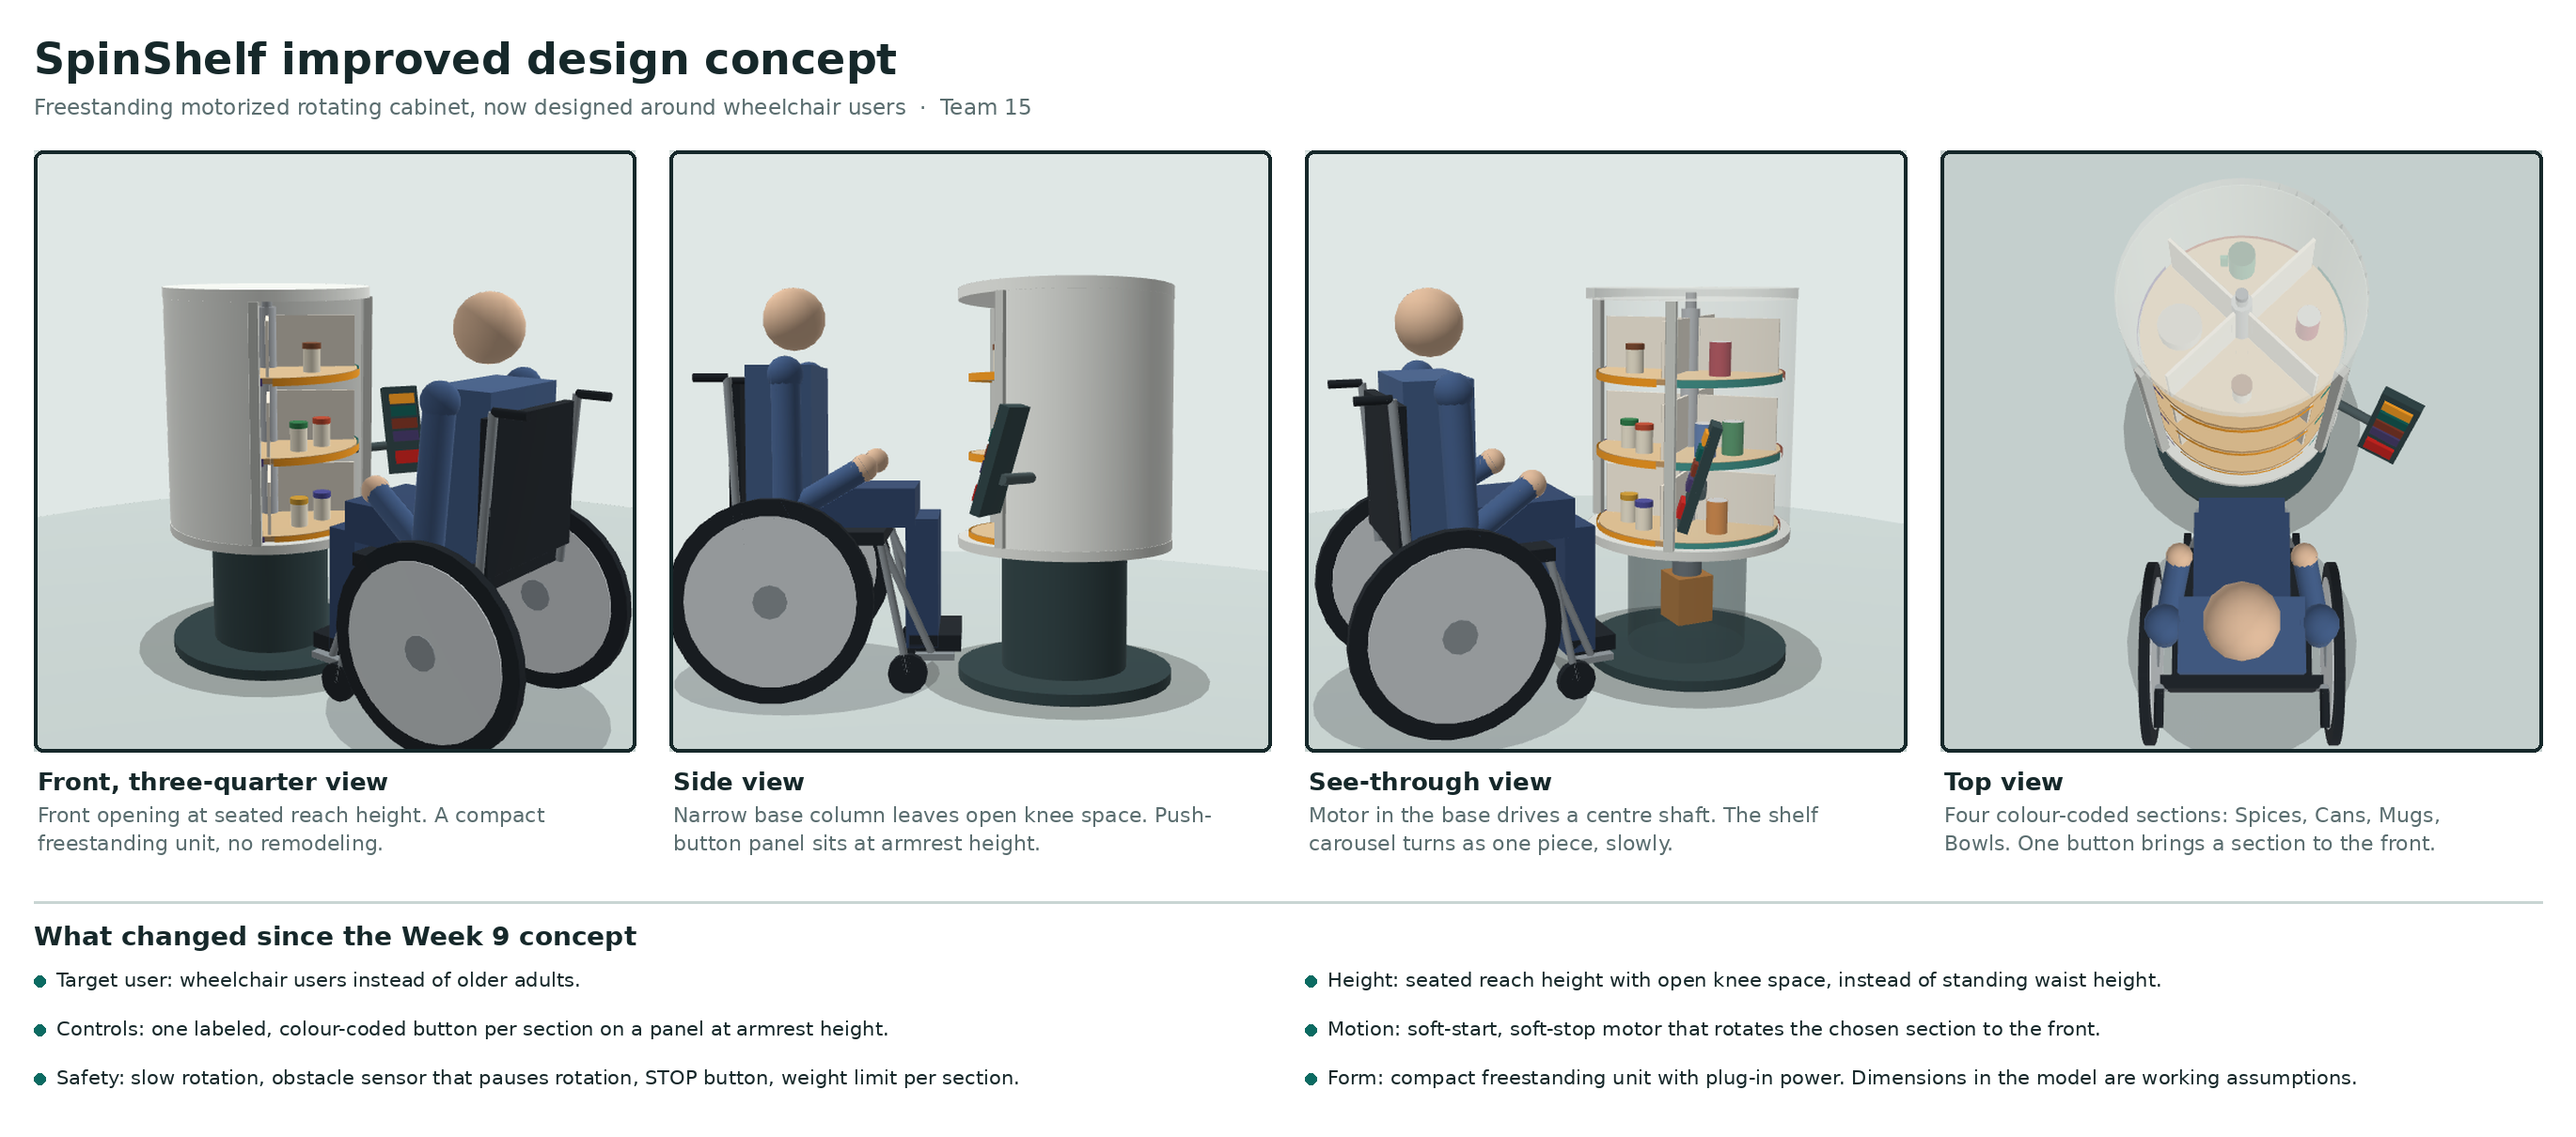
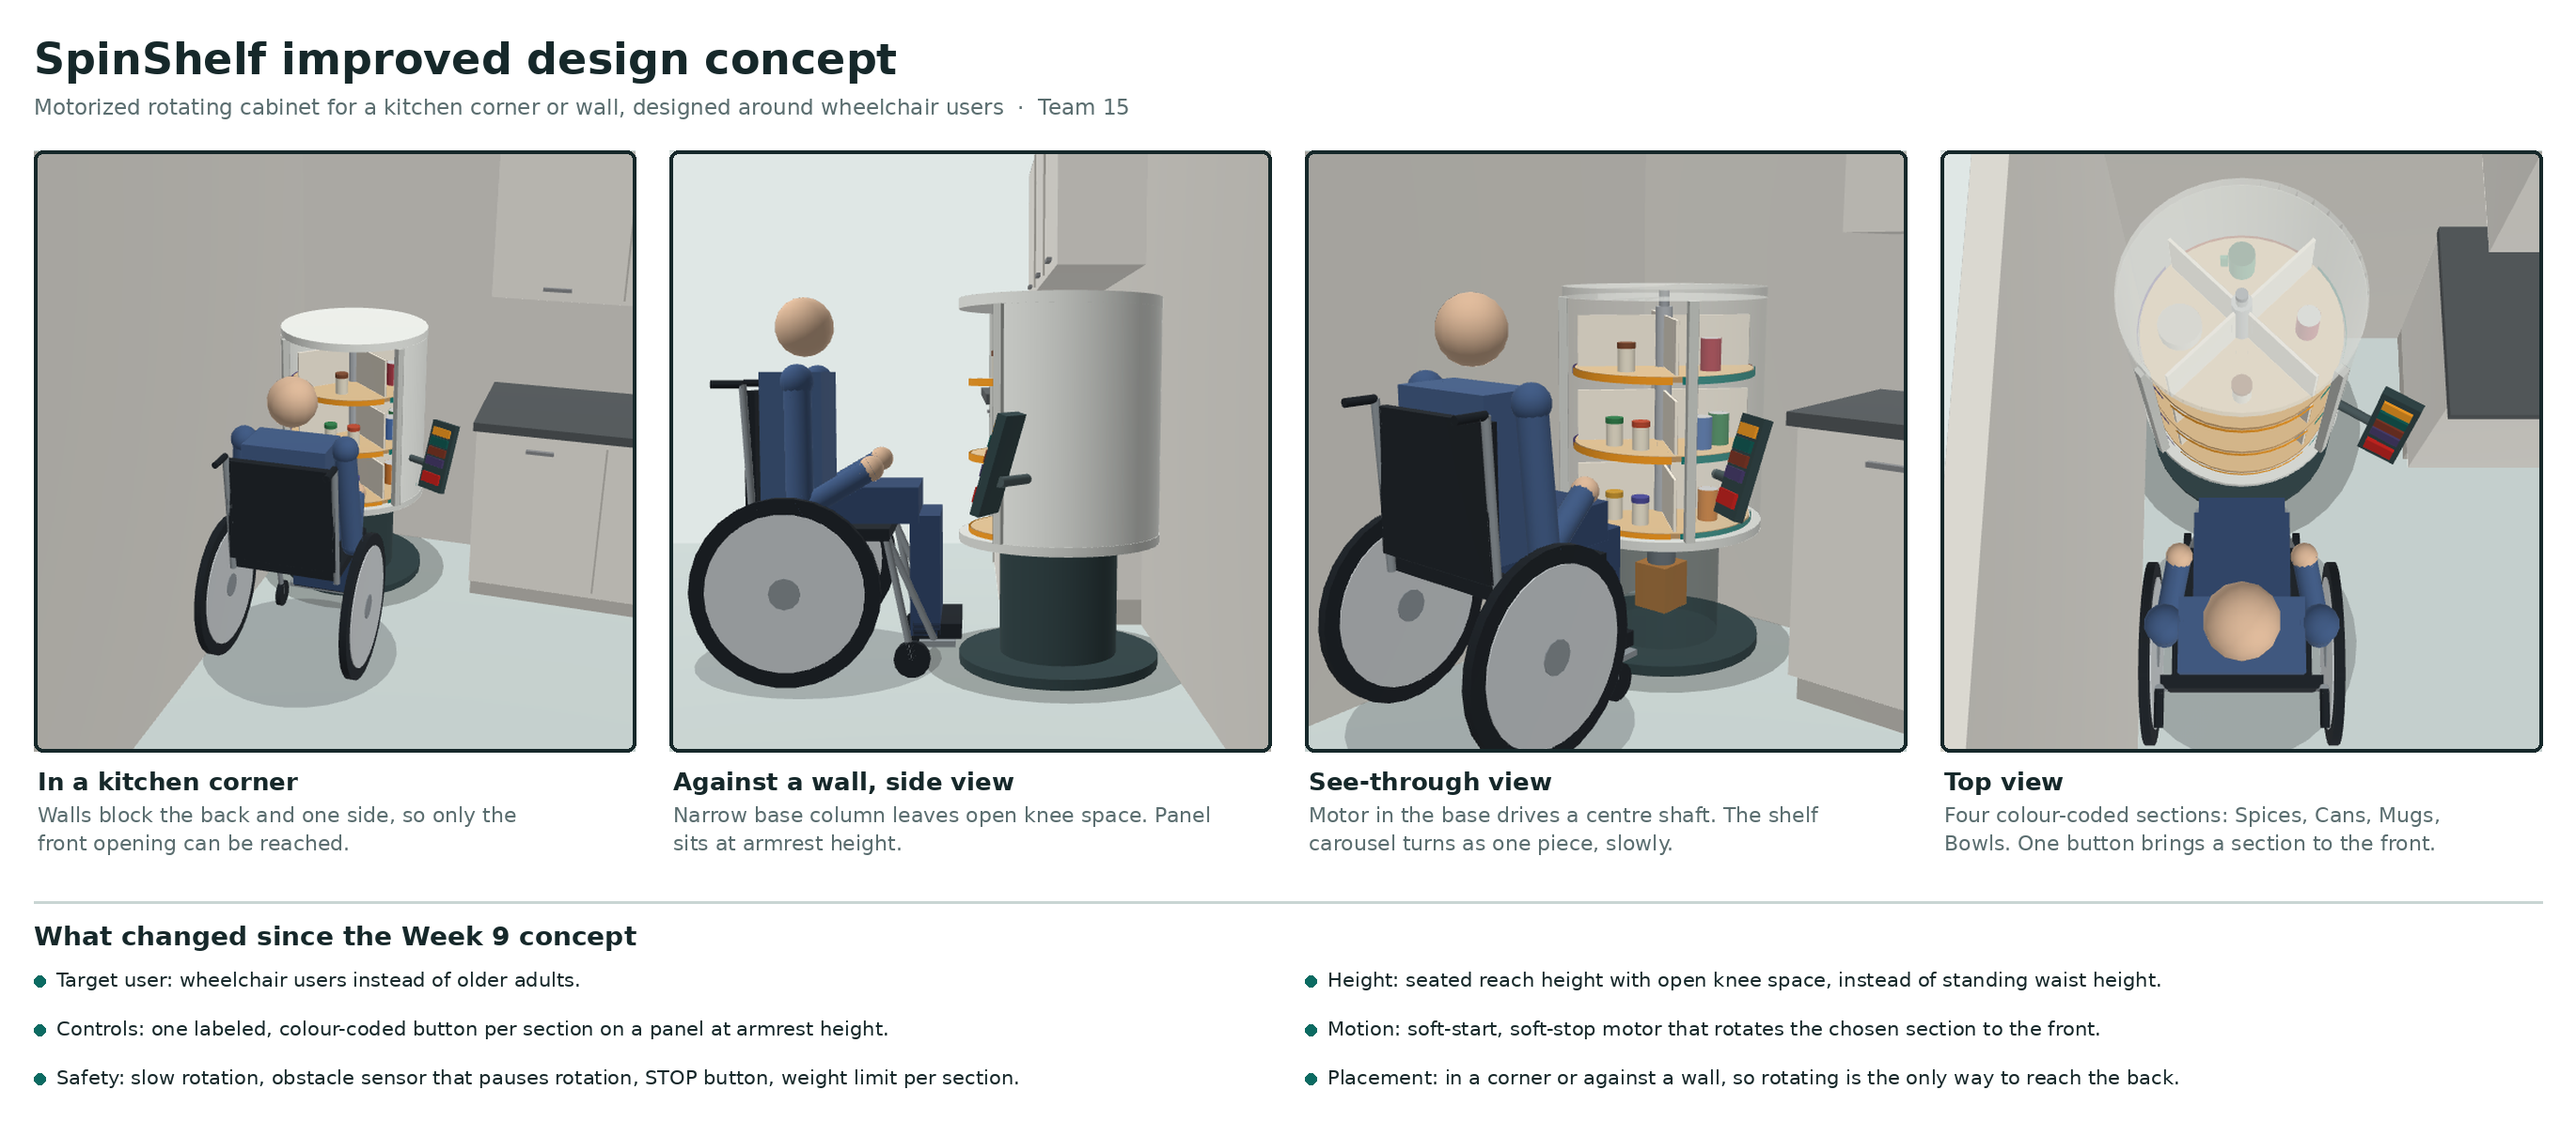
Add files via upload

diff --git a/spinshelf-3d.html b/spinshelf-3d.html
@@ -87,7 +87,7 @@ button[aria-pressed="true"]{background:var(--ink);border-color:var(--ink);color:
     <div class="bar"><i id="prog"></i></div>
     <div class="caption" aria-live="polite">
       <span class="step" id="stepn">Demo</span>
-      <p id="cap">SpinShelf is a freestanding motorized carousel. Press a section button and that section turns to the front.</p>
+      <p id="cap">SpinShelf stands in the kitchen corner, so only its front can be reached. Press a section button and that section turns to the front.</p>
     </div>
   </section>
 
@@ -114,10 +114,17 @@ button[aria-pressed="true"]{background:var(--ink);border-color:var(--ink);color:
         <button class="primary" id="play">Replay demo</button>
         <button id="shell" aria-pressed="true">See-through shell</button>
       </div>
+      <div class="row">
+        <span class="seg" role="group" aria-label="Where SpinShelf stands">
+          <button id="pc" aria-pressed="true">In a corner</button>
+          <button id="pw" aria-pressed="false">Against a wall</button>
+        </span>
+      </div>
       <ul class="legend">
         <li><i style="--c:#d98a3d"></i>Motor and drive shaft in the base</li>
         <li><i style="--c:#b58a5a"></i>Shelf carousel, turns as one piece</li>
         <li><i style="--c:#33474a"></i>Push-button panel at armrest height</li>
+        <li><i style="--c:#cfccc4"></i>Kitchen walls: only the front can be reached</li>
       </ul>
     </section>
   </div>
@@ -130,8 +137,9 @@ button[aria-pressed="true"]{background:var(--ink);border-color:var(--ink);color:
       <div><dt>Base column diameter</dt><dd>40 cm</dd></div>
       <div><dt>Panel height</dt><dd>about 70 cm</dd></div>
       <div><dt>Quarter turn</dt><dd>about 3 s</dd></div>
+      <div><dt>Placement</dt><dd>Corner or against a wall</dd></div>
     </dl>
-    <p class="note">These numbers are working assumptions for the model, not tested values. The opening sits inside the usual seated forward-reach range (about 38 to 122 cm), and the narrow base leaves open knee space for a wheelchair. Also in the concept but not modelled here: a weight limit per section, removable bins and plug-in power. Check the numbers in the concept test.</p>
+    <p class="note">SpinShelf stands in a kitchen corner or against a wall, so its back can never be reached directly: rotating is the only way to get to it. These numbers are working assumptions for the model, not tested values. The opening sits inside the usual seated forward-reach range (about 38 to 122 cm), and the narrow base leaves open knee space for a wheelchair. Also in the concept but not modelled here: a weight limit per section, removable bins and plug-in power. Check the numbers in the concept test.</p>
   </section>
 </div>
 
@@ -214,8 +222,8 @@ const items=[
  {t:0,w:2,k:'mug',c:[.25,.4,.65,1],o:-.26,r:.2},{t:0,w:2,k:'mug',c:[.95,.72,.2,1],o:.26,r:.2},{t:2,w:2,k:'mug',c:[.3,.6,.45,1],o:0,r:.2},
  {t:0,w:3,k:'bowl',c:BW,o:0,r:.18},{t:1,w:3,k:'bowl',c:[.6,.75,.85,1],o:0,r:.18},{t:2,w:3,k:'bowl',c:BW,o:0,r:.18}
 ];
-const S={sel:0,blocked:false,shell:true,mode:'wheel',pz:2.0,pzT:.82,hand:[.2,.68,1.8],handKey:'rest',held:false,hl:false,
-  yaw:1.25,pitch:.2,dist:3.5,yawT:null,userCam:false,pressed:null,pressT:0,stopFlash:0,time:0};
+const S={sel:0,blocked:false,place:'corner',eye:[3,1.4,1.4],pitchT:null,shell:true,mode:'wheel',pz:2.0,pzT:.82,hand:[.2,.68,1.8],handKey:'rest',held:false,hl:false,
+  yaw:.75,pitch:.2,dist:3.5,yawT:null,userCam:false,pressed:null,pressT:0,stopFlash:0,time:0};
 const PARK={wheel:.82,stand:.55};
 
 const PANEL=X(T(.46,.72,.22),RY(-.5),RX(-.3));
@@ -254,12 +262,29 @@ function person(b){
   function armL(b,A,H,c1,c2){const L=.7,d=Math.min(len(sub(H,A)),L-.001),mid=lerp3(A,H,.5),drop=Math.sqrt(L*L/4-d*d/4);const E=[mid[0]+(A[0]>0?.04:-.04),mid[1]-drop*.9,mid[2]+drop*.35];
     rod(b,A,E,.045,c1);rod(b,E,H,.038,c1);sphere(b,T(E[0],E[1],E[2]),.045,c1);sphere(b,T(A[0],A[1],A[2]),.055,c1);sphere(b,T(H[0],H[1],H[2]),.042,c2);}
 }
+function room(){
+  const E=S.eye,WZ=-.37,WX=-.37,H=2.25,TH=.06,corner=S.place==='corner';
+  const wall=[.89,.88,.85,1],ghost=[.89,.88,.85,.16],cab=[.95,.94,.91,1],top=[.33,.35,.36,1],line=[.78,.77,.74,1];
+  const x0=corner?WX:-2.3,x1=2.3,z1=3.1;
+  box(OP,T((x0+x1)/2,-.01,(WZ+z1)/2),x1-x0,.02,z1-WZ,S.floor);
+  const back=E[2]>WZ;
+  box(back?OP:TR,T((x0+x1)/2-(corner?TH/2:0),H/2,WZ-TH/2),x1-x0+(corner?TH:0),H,TH,back?wall:ghost);
+  if(corner){const left=E[0]>WX;box(left?OP:TR,T(WX-TH/2,H/2,(WZ+z1)/2),TH,H,z1-WZ,left?wall:ghost);}
+  /* kitchen run next to SpinShelf: counter to the right in a corner, to the left against a wall */
+  const a=corner?.62:x0,b=corner?x1:-.46,cx=(a+b)/2,w=b-a,D=.6;
+  box(OP,T(cx,.05,WZ+D/2-.05),w,.1,D-.1,line);
+  box(OP,T(cx,.48,WZ+D/2-.02),w,.76,D-.04,cab);
+  box(OP,T(cx,.885,WZ+D/2),w+.02,.04,D+.02,top);
+  box(OP,T(cx,1.75,WZ+.17),w,.7,.34,cab);
+  const n=Math.max(1,Math.round(w/.6));
+  for(let i=1;i<n;i++){const x=a+w*i/n;box(OP,T(x,.48,WZ+D-.035),.008,.7,.01,line);box(OP,T(x,1.75,WZ+.345),.008,.66,.01,line);}
+  for(let i=0;i<n;i++){const x=a+w*(i+.5)/n;box(OP,T(x,.78,WZ+D-.03),.12,.015,.02,[.55,.56,.57,1]);box(OP,T(x,1.45,WZ+.35),.12,.015,.02,[.55,.56,.57,1]);}
+}
 function build(){
   OP.n=0;TR.n=0;const al=S.shell?.2:1,SB=S.shell?TR:OP;
   const shellC=[.93,.94,.92,al],baseC=[.2,.27,.28,S.shell?.3:1];
   const rotating=Math.abs(car.t-car.a)>.002&&!S.blocked;
-  /* floor */
-  cyl(OP,T(0,-.02,.5),2.6,.02,S.floor,{segs:48});
+  room();
   cyl(TR,T(0,.001,0),.46,.001,[0,0,0,.13],{segs:32});cyl(TR,T(0,.001,S.pz),.42,.001,[0,0,0,.1],{segs:32});
   /* base, motor, shaft */
   cyl(OP,T(0,0,0),.34,.035,[.2,.27,.28,1],{segs:36});
@@ -313,6 +338,9 @@ $('stop').onclick=()=>manual('stop',stopAll,'Stopped. The carousel holds its pos
 $('block').onclick=()=>{const b=!S.blocked;demo.on=false;setBlocked(b);setStatus(b?'Obstacle sensor: something is in the way, so rotation is paused.':'Clear. Rotation continues.');};
 $('shell').onclick=e=>{S.shell=!S.shell;e.currentTarget.setAttribute('aria-pressed',String(S.shell));};
 $('play').onclick=startDemo;
+function setPlace(p){S.place=p;$('pc').setAttribute('aria-pressed',String(p==='corner'));$('pw').setAttribute('aria-pressed',String(p==='wall'));}
+$('pc').onclick=()=>{setPlace('corner');setStatus('SpinShelf is in the kitchen corner. Walls block the back and the left side.');};
+$('pw').onclick=()=>{setPlace('wall');setStatus('SpinShelf is against the kitchen wall. The wall blocks the back.');};
 
 /* camera */
 const ptrs=new Map();let pinch=0;
@@ -328,17 +356,17 @@ cv.addEventListener('wheel',e=>{e.preventDefault();S.dist=Math.max(1.6,Math.min(
 /* ---------- demo ---------- */
 const demo={on:false,i:0,t:0};
 const STEPS=[
- {d:3.4,cap:()=>'Margaret rolls up to SpinShelf. Open knee space under the carousel lets her chair get close.',go(){S.pzT=PARK[S.mode];S.yawT=1.25;}},
- {d:3.6,cap:()=>'Her red mug is in the Mugs section, which is facing the back. In a normal cabinet that means leaning out of the chair or waiting for help.',go(){S.hl=true;S.yawT=2.0;}},
- {d:1.8,cap:()=>'She presses the Mugs button on the panel by her armrest.',go(){S.handKey='s2';S.yawT=1.0;},end(){press('s2');goSection(2);setStatus('Mugs section is turning to the front.');}},
- {d:6.4,cap:()=>'The motor starts gently and turns the carousel slowly until the Mugs section faces her.',go(){S.handKey='rest';S.yawT=1.45;}},
- {d:1.6,cap:()=>'The mug arrives at the front opening.',go(){S.yawT=1.3;}},
+ {d:3.6,cap:()=>(S.place==='corner'?'SpinShelf stands in the corner of Margaret\'s kitchen, so she can only reach it from the front.':'SpinShelf stands against Margaret\'s kitchen wall, so she can only reach it from the front.')+' Open knee space lets her chair get close.',go(){S.pzT=PARK[S.mode];S.yawT=.75;S.pitchT=.2;}},
+ {d:4.2,cap:()=>'Her red mug is in the Mugs section, at the back against the wall. She cannot get behind the cabinet, and reaching in means leaning out of her chair.',go(){S.hl=true;S.yawT=.55;S.pitchT=1.0;}},
+ {d:1.8,cap:()=>'She presses the Mugs button on the panel by her armrest.',go(){S.handKey='s2';S.yawT=.6;S.pitchT=.2;},end(){press('s2');goSection(2);setStatus('Mugs section is turning to the front.');}},
+ {d:6.4,cap:()=>'The motor starts gently and turns the carousel slowly until the Mugs section faces her.',go(){S.handKey='rest';S.yawT=.85;}},
+ {d:1.6,cap:()=>'The mug arrives at the front opening.',go(){S.yawT=.7;}},
  {d:1.5,cap:()=>'She takes it from the front edge.',go(){S.handKey='item';},end(){S.held=true;S.hl=false;}},
  {d:3.2,cap:()=>'No leaning out of her chair and no waiting for help.',go(){S.handKey='rest';}},
- {d:5,cap:()=>'If something blocks the shelf, a sensor pauses it, and STOP holds it at any time. Try the panel below.',go(){S.yawT=1.15;}}
+ {d:5,cap:()=>'If something blocks the shelf, a sensor pauses it, and STOP holds it at any time. Try the panel below.',go(){S.yawT=.8;}}
 ];
 function resetScene(){car.a=0;car.t=0;car.v=0;setBlocked(false);S.held=false;S.hl=false;S.handKey='rest';mark(0);S.stopFlash=0;S.pressT=0;}
-function startDemo(){resetScene();S.pz=2.0;S.hand=restPos();S.userCam=false;demo.on=true;demo.i=-1;demo.t=0;nextStep();setStatus('Spices section is at the front.');}
+function startDemo(){resetScene();S.pitchT=.2;S.pz=2.0;S.hand=restPos();S.userCam=false;demo.on=true;demo.i=-1;demo.t=0;nextStep();setStatus('Spices section is at the front.');}
 function nextStep(){if(demo.i>=0&&STEPS[demo.i].end)STEPS[demo.i].end();demo.i++;demo.t=0;
   if(demo.i>=STEPS.length){demo.on=false;$('stepn').textContent='Done';$('prog').style.width='100%';return;}
   const s=STEPS[demo.i];s.go();$('cap').textContent=s.cap();$('stepn').textContent='Step '+(demo.i+1)+' of '+STEPS.length;}
@@ -361,13 +389,15 @@ function frame(ms){
   S.hand=lerp3(S.hand,handGoal(),Math.min(1,dt*(S.handKey==='rest'&&Math.abs(S.pzT-S.pz)>.01?30:5)));
   if(S.pressT>0)S.pressT-=dt;if(S.stopFlash>0)S.stopFlash-=dt;
   if(!S.userCam&&S.yawT!==null)S.yaw+=(S.yawT-S.yaw)*Math.min(1,dt*1.3);
+  if(!S.userCam&&S.pitchT!==null)S.pitch+=(S.pitchT-S.pitch)*Math.min(1,dt*1.3);
   /* draw */
   const dpr=Math.min(2,window.devicePixelRatio||1),w=Math.round(cv.clientWidth*dpr),h=Math.round(cv.clientHeight*dpr);
   if(cv.width!==w||cv.height!==h){cv.width=w;cv.height=h;}
   gl.viewport(0,0,w,h);gl.clearColor(S.clear[0],S.clear[1],S.clear[2],1);gl.clear(gl.COLOR_BUFFER_BIT|gl.DEPTH_BUFFER_BIT);
-  build();
   const asp=w/h,ctr=[0,.72,.3],dist=S.dist*(asp<1?1.25:1);
   const eye=[ctr[0]+dist*Math.cos(S.pitch)*Math.sin(S.yaw),ctr[1]+dist*Math.sin(S.pitch),ctr[2]+dist*Math.cos(S.pitch)*Math.cos(S.yaw)];
+  S.eye=eye;
+  build();
   gl.uniformMatrix4fv(uVP,false,new Float32Array(mul(persp(.6,asp,.1,30),lookAt(eye,ctr,[0,1,0]))));
   gl.uniform3f(uEye,eye[0],eye[1],eye[2]);
   gl.disable(gl.BLEND);gl.depthMask(true);
